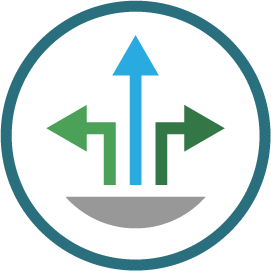
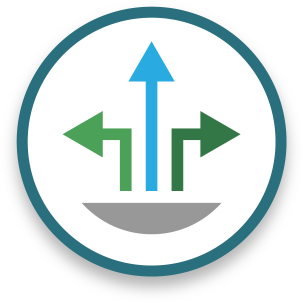
pre usa

diff --git a/app/styles/_myVars.scss b/app/styles/_myVars.scss
@@ -45,7 +45,7 @@ $slides: (
       background-position: $bg-position;
       
       .slide-icon{
-        @include at2x('../images/#{$class}/slide-icon',"png", 136px, 136px);
+        @include at2x('../images/#{$class}/slide-icon',"png", 152px, 152px);
         @extend .extend-slide-icon;
       }
       

diff --git a/app/styles/_myExtends.scss b/app/styles/_myExtends.scss
@@ -28,8 +28,8 @@
 }
 
 .extend-slide-icon{
-  width: 136px;
-  height: 136px;
+  width: 152px;
+  height: 152px;
   position: absolute;
   left :845px;
   top: 20px;
